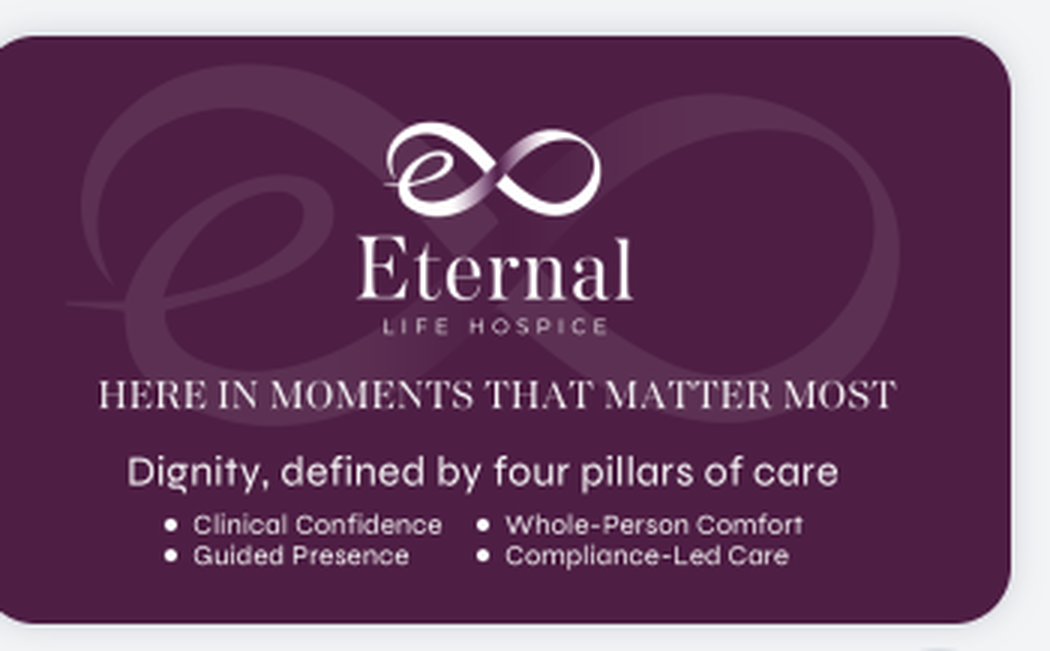
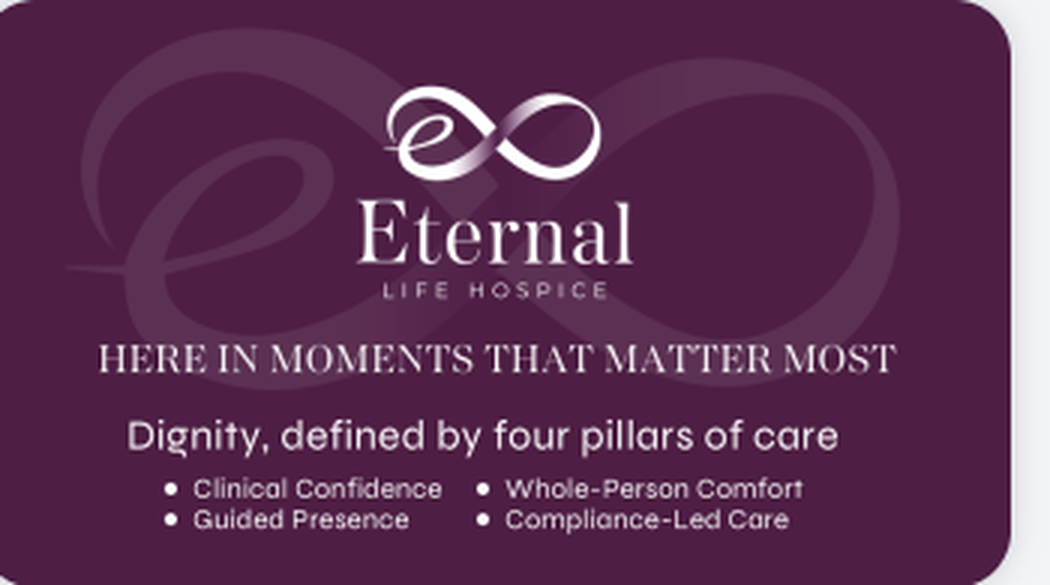
Remove white borders from card images
Update card image dimensions and aspect ratio in HTML to remove white borders, while retaining the drop shadow effect.

Replit-Commit-Author: Agent
Replit-Commit-Session-Id: 1b958849-79a5-4566-be53-e68529931cd0
Replit-Commit-Checkpoint-Type: full_checkpoint
Replit-Commit-Event-Id: 91096c13-aa1d-4f3f-8de5-88636d83ac75
Replit-Commit-Screenshot-Url: https://storage.googleapis.com/screenshot-production-us-central1/e1b2f643-7869-4565-af0e-10c34575ee8d/1b958849-79a5-4566-be53-e68529931cd0/Y3LId4h
Replit-Helium-Checkpoint-Created: true

diff --git a/website/elh-preview/card-aleksandra-dubina.html b/website/elh-preview/card-aleksandra-dubina.html
@@ -52,7 +52,7 @@ body{background:#F5F0EB;font-family:Arial,Helvetica,sans-serif;min-height:100vh;
 .flip-section{padding:24px 20px 0;}
 .flip-label{text-align:center;font-size:9px;letter-spacing:1.5px;text-transform:uppercase;color:#8A7080;margin-bottom:10px;}
 
-.flip-scene{width:100%;aspect-ratio:350/217;perspective:900px;cursor:pointer;}
+.flip-scene{width:100%;aspect-ratio:350/195;perspective:900px;cursor:pointer;}
 .flip-inner{width:100%;height:100%;position:relative;transform-style:preserve-3d;transition:transform .55s cubic-bezier(.4,0,.2,1);}
 .flip-inner.flipped{transform:rotateY(180deg);}
 
